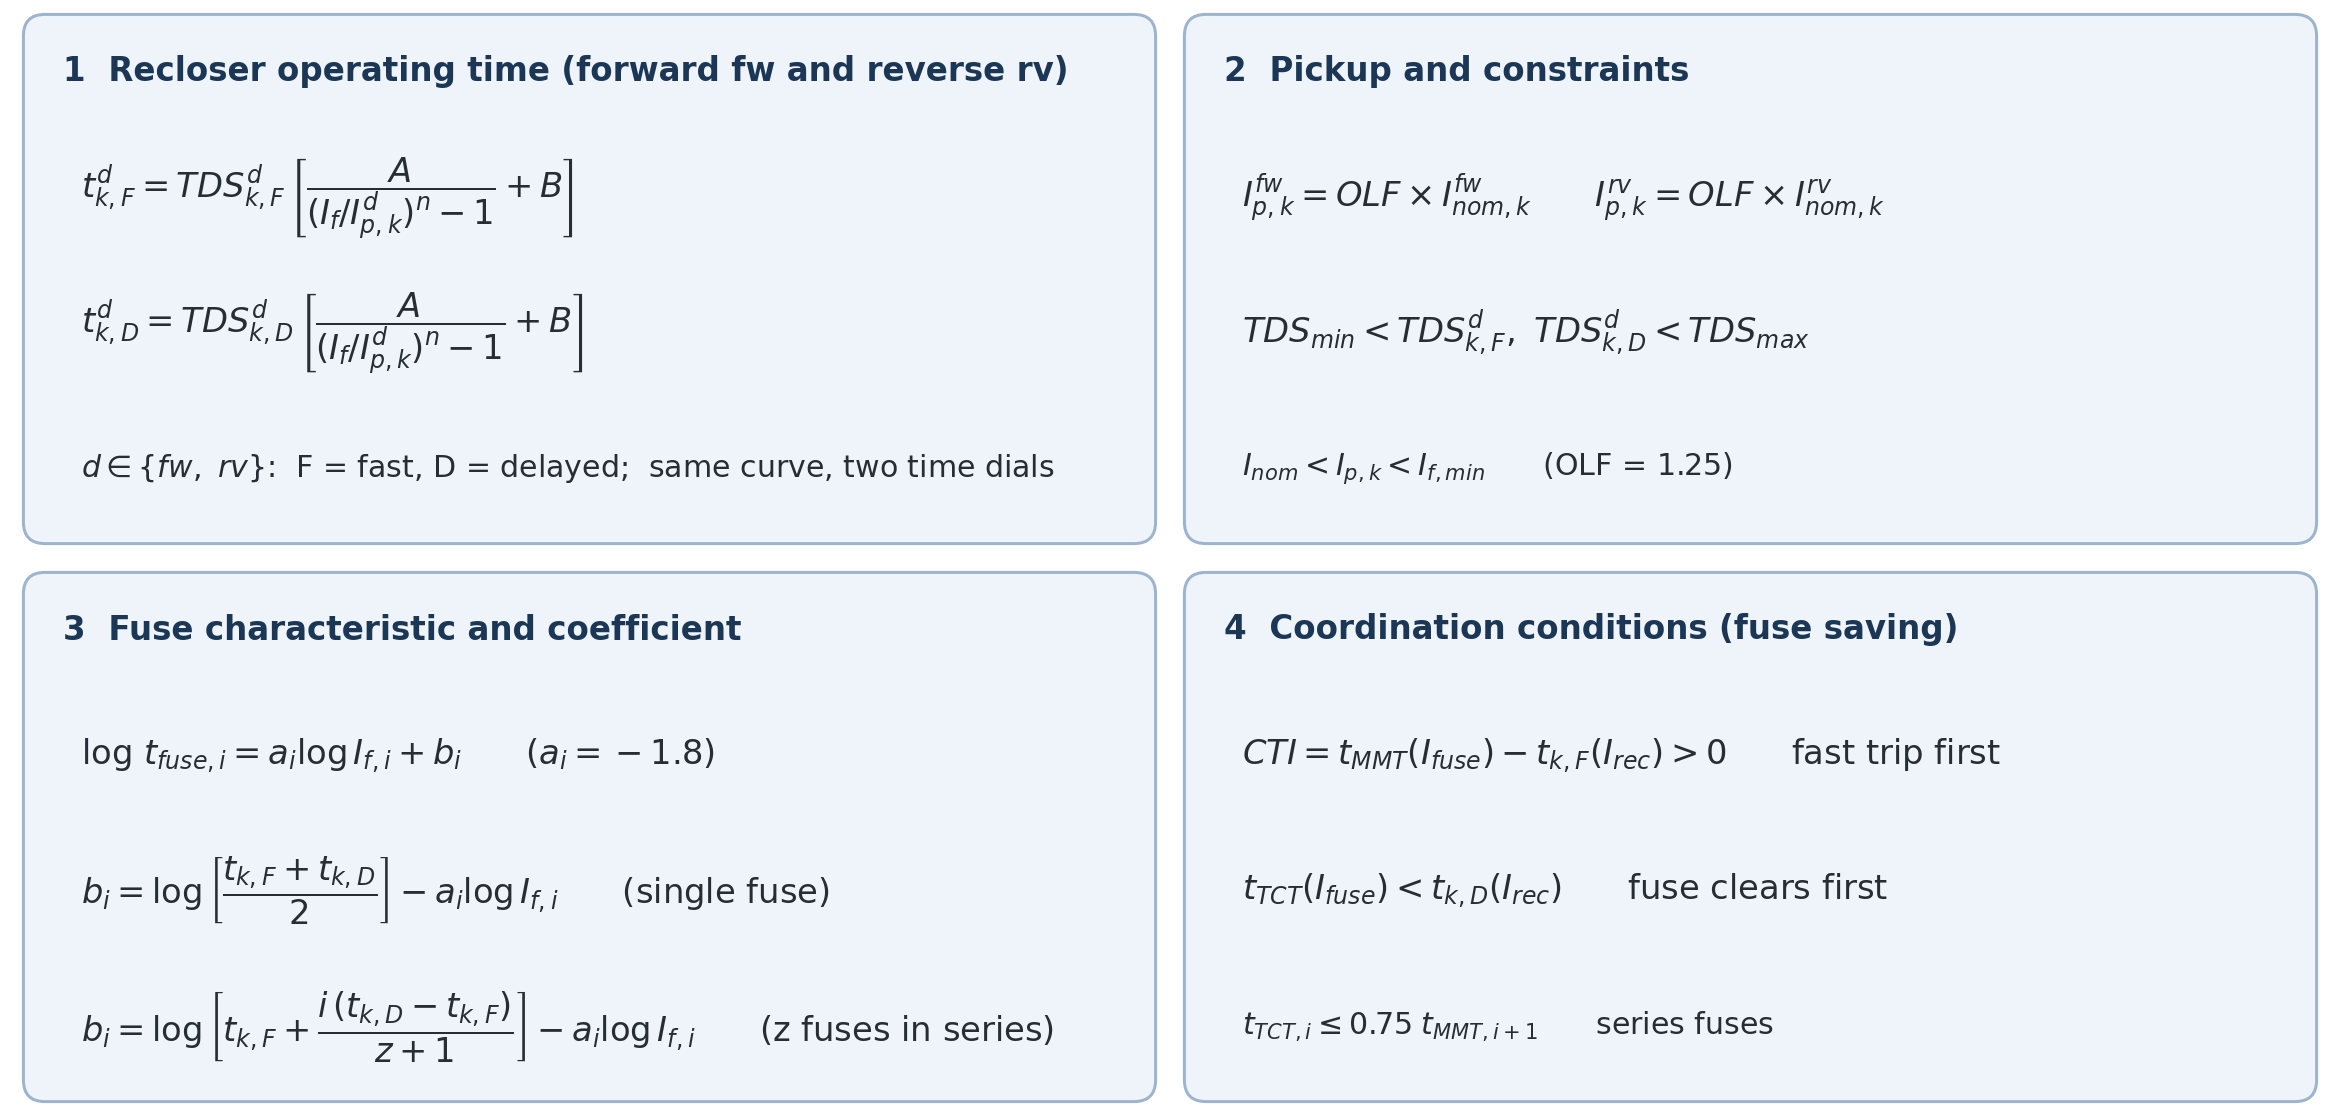
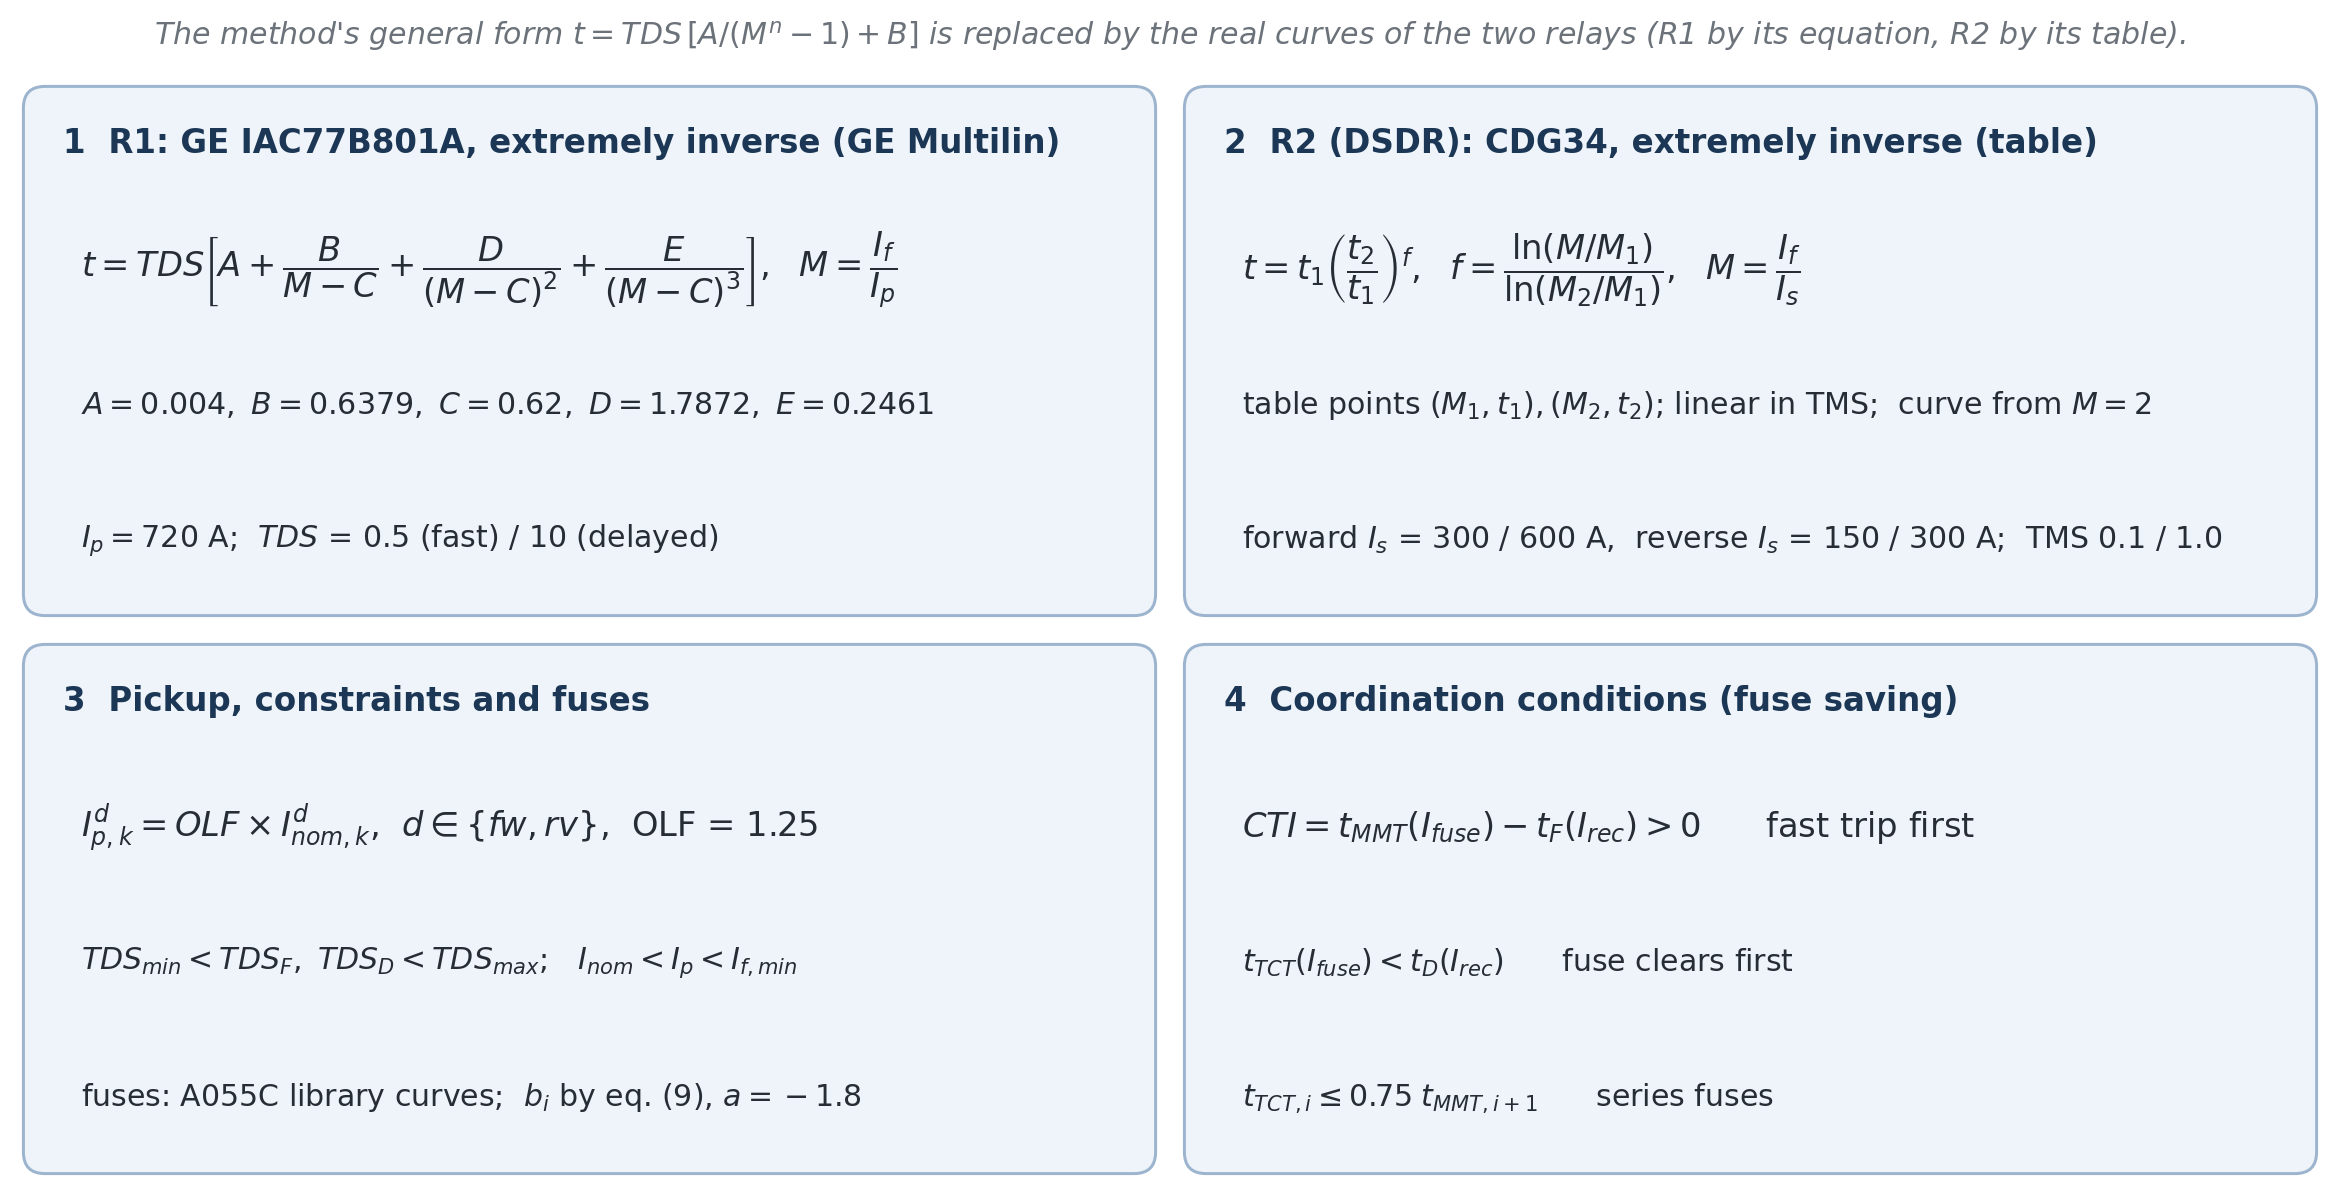
Formulation slide: IAC extremely inverse equation for R1, CDG34 table for R2

diff --git a/DSDR_Study/make_equations_figure.py b/DSDR_Study/make_equations_figure.py
@@ -14,38 +14,41 @@ HERE = os.path.dirname(os.path.abspath(__file__))
 NAVY, INK, FILL, EDGE = "#1b3755", "#262d34", "#eef4f9", "#9db4cf"
 
 BOXES = [
-    ("1  Recloser operating time (forward fw and reverse rv)",
-     [r"$t^{d}_{k,F} = TDS^{d}_{k,F}\,\left[\dfrac{A}{(I_{f}/I^{d}_{p,k})^{n}-1}+B\right]$",
-      r"$t^{d}_{k,D} = TDS^{d}_{k,D}\,\left[\dfrac{A}{(I_{f}/I^{d}_{p,k})^{n}-1}+B\right]$",
-      r"$d \in \{fw,\ rv\}$:  F = fast, D = delayed;  same curve, two time dials"]),
-    ("2  Pickup and constraints",
-     [r"$I^{fw}_{p,k} = OLF \times I^{fw}_{nom,k}$      $I^{rv}_{p,k} = OLF \times I^{rv}_{nom,k}$",
-      r"$TDS_{min} < TDS^{d}_{k,F},\ TDS^{d}_{k,D} < TDS_{max}$",
-      r"$I_{nom} < I_{p,k} < I_{f,min}$      (OLF = 1.25)"]),
-    ("3  Fuse characteristic and coefficient",
-     [r"$\log\,t_{fuse,i} = a_i \log I_{f,i} + b_i$      ($a_i = -1.8$)",
-      r"$b_i = \log\left[\dfrac{t_{k,F}+t_{k,D}}{2}\right] - a_i \log I_{f,i}$      (single fuse)",
-      r"$b_i = \log\left[t_{k,F}+\dfrac{i\,(t_{k,D}-t_{k,F})}{z+1}\right] - a_i \log I_{f,i}$      (z fuses in series)"]),
+    ("1  R1: GE IAC77B801A, extremely inverse (GE Multilin)",
+     [r"$t = TDS\left[A+\dfrac{B}{M-C}+\dfrac{D}{(M-C)^2}+\dfrac{E}{(M-C)^3}\right],\ \ M=\dfrac{I_f}{I_p}$",
+      r"$A=0.004,\ B=0.6379,\ C=0.62,\ D=1.7872,\ E=0.2461$",
+      r"$I_p = 720$ A;  $TDS$ = 0.5 (fast) / 10 (delayed)"]),
+    ("2  R2 (DSDR): CDG34, extremely inverse (table)",
+     [r"$t = t_1\left(\dfrac{t_2}{t_1}\right)^{f},\ \ f=\dfrac{\ln(M/M_1)}{\ln(M_2/M_1)},\ \ M=\dfrac{I_f}{I_s}$",
+      r"table points $(M_1,t_1),(M_2,t_2)$; linear in TMS;  curve from $M = 2$",
+      r"forward $I_s$ = 300 / 600 A,  reverse $I_s$ = 150 / 300 A;  TMS 0.1 / 1.0"]),
+    ("3  Pickup, constraints and fuses",
+     [r"$I^{d}_{p,k} = OLF \times I^{d}_{nom,k}$,  $d \in \{fw,rv\}$,  OLF = 1.25",
+      r"$TDS_{min} < TDS_{F},\ TDS_{D} < TDS_{max}$;   $I_{nom} < I_{p} < I_{f,min}$",
+      r"fuses: A055C library curves;  $b_i$ by eq. (9), $a=-1.8$"]),
     ("4  Coordination conditions (fuse saving)",
-     [r"$CTI = t_{MMT}(I_{fuse}) - t_{k,F}(I_{rec}) > 0$      fast trip first",
-      r"$t_{TCT}(I_{fuse}) < t_{k,D}(I_{rec})$      fuse clears first",
+     [r"$CTI = t_{MMT}(I_{fuse}) - t_{F}(I_{rec}) > 0$      fast trip first",
+      r"$t_{TCT}(I_{fuse}) < t_{D}(I_{rec})$      fuse clears first",
       r"$t_{TCT,i} \leq 0.75\; t_{MMT,i+1}$      series fuses"]),
 ]
+NOTE = (r"The method's general form $t = TDS\,[A/(M^{n}-1)+B]$ is replaced by the real curves of the two relays "
+        "(R1 by its equation, R2 by its table).")
 
 
 def main():
-    fig = plt.figure(figsize=(13.0, 6.2))
+    fig = plt.figure(figsize=(13.0, 6.6))
     ax = fig.add_axes([0, 0, 1, 1])
     ax.set_xlim(0, 13)
-    ax.set_ylim(0, 6.2)
+    ax.set_ylim(0, 6.6)
     ax.axis("off")
+    ax.text(6.5, 6.4, NOTE, fontsize=12, color="#6b727a", ha="center", va="center", style="italic")
     pos = [(0.15, 3.2), (6.6, 3.2), (0.15, 0.1), (6.6, 0.1)]
     for (x, y), (title, lines) in zip(pos, BOXES):
         ax.add_patch(FancyBboxPatch((x, y), 6.25, 2.9, boxstyle="round,pad=0.02,rounding_size=0.12",
                                     fc=FILL, ec=EDGE, lw=1.2))
         ax.text(x + 0.2, y + 2.6, title, fontsize=13, fontweight="bold", color=NAVY, va="center")
         for j, ln in enumerate(lines):
-            ax.text(x + 0.3, y + 1.9 - 0.75 * j, ln, fontsize=13.5 if (j < 2 or "dfrac" in ln) else 12, color=INK, va="center")
+            ax.text(x + 0.3, y + 1.9 - 0.75 * j, ln, fontsize=13.5 if j == 0 else 12, color=INK, va="center")
     out = os.path.join(HERE, "results", "figures", "DSDR_equations.png")
     fig.savefig(out, dpi=180, facecolor="white")
     plt.close(fig)

diff --git a/DSDR_Study/make_presentation.py b/DSDR_Study/make_presentation.py
@@ -238,12 +238,12 @@ NOTES = [
     time dial is revised first, and at the dial limit the fuse is made larger. The fuse must not melt before
     the fast trip, and must clear before the delayed trip.""",
     # 7b equations
-    """These are the equations of the method. Each recloser has the same inverse-time curve with a fast and a
-    delayed time dial, in the forward and, for the DSDR, the reverse direction. The pickup is 1.25 times the
-    load current in that direction and must stay below the smallest fault current. Each fuse follows a straight
-    line on log-log axes with slope minus 1.8; its coefficient b places it between the fast and delayed
-    recloser times. Coordination holds when the fuse melts after the fast trip and clears before the delayed
-    trip.""",
+    """The method gives a general inverse-time equation, but here the real curves of the two relays are used.
+    R1 is a GE IAC77 extremely inverse relay, with the GE Multilin equation shown, a pickup of 720 amperes and
+    dials 0.5 and 10. R2, the DSDR, is a CDG34 extremely inverse relay, evaluated from its PowerFactory table
+    by log-log interpolation, with forward and reverse plug settings and multipliers 0.1 and 1.0. The pickup is
+    1.25 times the load current in each direction, the fuses use the A055C library curves, and coordination
+    holds when the fuse melts after the fast trip and clears before the delayed trip.""",
     # 8 system
     """This is the PowerFactory model: a 4.16 kV feeder fed from a 115 kV grid, a 4.05 MVA synchronous
     generator at node 692, R1 a GE IAC77 relay at the feeder head, R2 a CDG34 relay on line 632 to 671, and
